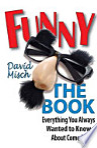
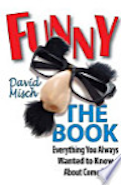
make top selling book slide on home page

diff --git a/index.html b/index.html
@@ -5,7 +5,8 @@
     <meta name="viewport" content="width=device-width, initial-scale=1.0" />
     <title>Document</title>
     <!-- font swiper bundle-->
-    <link rel="stylesheet" href="https://unpkg.com/swiper@7/swiper-bundele.min.css">
+    <link rel="stylesheet"href="https://cdn.jsdelivr.net/npm/swiper@10/swiper-bundle.min.css"/>
+    <!-- <link rel="stylesheet" href="https://unpkg.com/swiper@7/swiper-bundele.min.css"> -->
 
     <!--  font awesome from cdn -->
     <link
@@ -54,8 +55,8 @@
     <!-- bottom navbar -->
     <nav class="bottom-navbar">
       <a href="#home" class="fas fa-home"></a>
-      <a href="#feature" class="fas fa-list"></a>
-      <a href="#arrival" class="fas fa-tags"></a>
+      <a href="#featured" class="fas fa-list"></a>
+      <a href="#arrivals" class="fas fa-tags"></a>
       <a href="#reviews" class="fas fa-comments"></a>
       <a href="#blogs" class="fas fa-blog"></a>
     </nav>
@@ -104,8 +105,8 @@
           </p>
           <a href="#" class="btn">shop now</a>
         </div>
-        <div class="books-slider">
-          <div class="wraper">
+        <div class=" swiper books-slider">
+          <div class="swiper_wrapper">
             <a href="#"><img src="./images/book-1.png" alt="book 1"></a></div>
             <a href="#"><img src="./images/book-2.png" alt="book 2"></a></div>
             <a href="#"><img src="./images/book-3.png" alt="book 3"></a></div>
@@ -113,12 +114,14 @@
             <a href="#"><img src="./images/book-5.png" alt="book 5"></a></div>
             <a href="#"><img src="./images/book-6.png" alt="book 6"></a></div>
         </div>
-        <img src="images/stand.jpg"class="stand" alt="picture stand">
+        <img src="images/stand.png"class="stand" alt="picture stand">
 
       </div>
     </section>
     <!-- home section ends -->
 
+
+    <script src="https://cdn.jsdelivr.net/npm/swiper@10/swiper-bundle.min.js"></script>
     <!-- js file links -->
     <script src="./js/script.js"></script>
   </body>

diff --git a/css/styles.css b/css/styles.css
@@ -165,7 +165,7 @@ body {
   display: flex;
   align-items: center;
   justify-content: center;
-  background: rgb(255, 255, 255, 9);
+  background: rgb(255, 255, 255, 0.9);
   position: fixed;
   top: 0;
   right: -105%;
@@ -248,7 +248,7 @@ body {
 }
 
 .home {
-  background: url(../images/banner-bg.jpg) no-repeat;
+  background: url(../images/Blume.png) no-repeat;
   background-size: cover;
   background-position: center;
 }
@@ -264,19 +264,19 @@ body {
   flex: 1 1 42rem;
 }
 
-.home .row .book-slider {
+.home .row .books-slider {
   flex: 1 1 42rem;
   text-align: center;
   margin-top: 2rem;
 }
 
-.home .row .book-slider a img {
+.home .row .books-slider a img {
   height: 25rem;
 }
-.home .row .book-slider a:hover img {
-  transform: scale(0.9);
+.home .row .books-slider a:hover img {
+  transform: scale(0.7);
 }
-.home .row .book-slider .stand {
+.home .row .books-slider .stand {
   width: 100%;
   margin-top: -2rem;
 }
@@ -287,7 +287,7 @@ body {
 
 .home .row .content p {
   color: var(--light-color);
-  font-size: 1.5rem;
+  font-size: 1.4rem;
   line-height: 2;
   padding: 1rem 0;
 }

diff --git a/js/script.js b/js/script.js
@@ -31,3 +31,24 @@ window.onload = () => {
     document.querySelector(".header .header-2").classList.remove("active");
   }
 };
+
+//home swiper function
+var swiper = new Swiper(".books-slider", {
+  loop: true,
+  centeredSlides: true,
+  autoplay: {
+    delay: 9500,
+    disableOnInteraction: false,
+  },
+  breakpoints: {
+    0: {
+      slidesPerView: 1,
+    },
+    768: {
+      slidesPerView: 2,
+    },
+    1024: {
+      slidesPerView: 3,
+    },
+  },
+});
